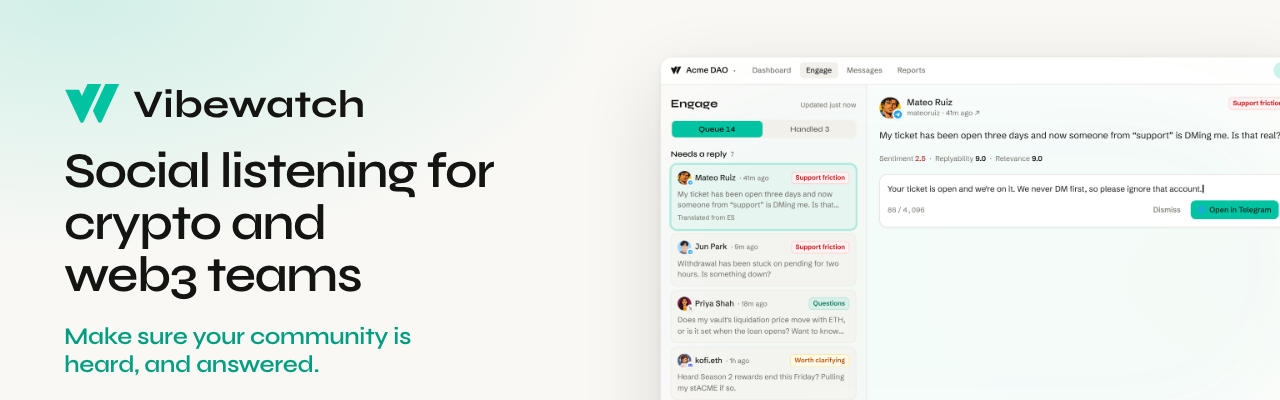
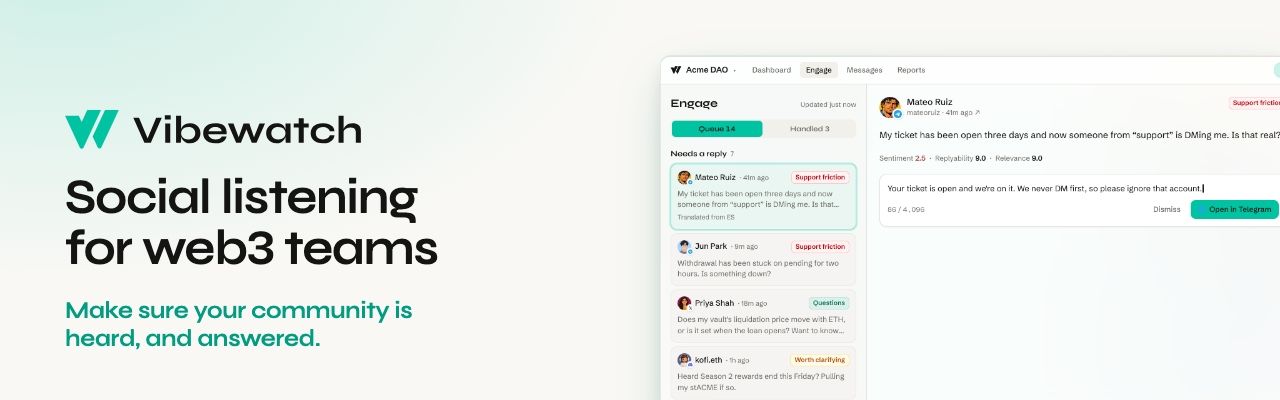
Org hero: the category line, and point at its render source
The hero said "Social listening for crypto and web3 teams", the homepage H1's
long form; VOICE.md names "Social listening for web3 teams" for this kind of
surface. Re-rendered by vibewatch-marketing hero-kit/render-banners.mjs (only
the headline changed). The alt text follows, and describes the window as the
site's illustration rather than a screenshot of the app.

diff --git a/README.md b/README.md
@@ -5,6 +5,6 @@ Organization-level GitHub configuration for [Vibewatch](https://vibewatch.io).
 - [`profile/README.md`](profile/README.md) renders as the public org profile at [github.com/Vibewatch-io](https://github.com/Vibewatch-io).
 - [`profile/assets/`](profile/assets/) holds the brand assets used by that profile: the hero banner, logo lockups and symbol.
 
-`profile/assets/hero.png` is the Vibewatch 2.0 share banner (wordmark, category line and headline over the Engage window). It is an exported PNG with no render source in any repo yet, so when the homepage hero copy changes, replace it with a new export in the same style.
+`profile/assets/hero.png` is the Vibewatch 2.0 share banner (wordmark, category line and headline beside the Engage window). It is rendered by `hero-kit/render-banners.mjs` in the internal `vibewatch-marketing` repo, which also holds its source PNG (`hero-kit/banners/github-org-hero-1280x400.png`). When the category line or the homepage hero changes, re-render it there and replace this file with the new export.
 
 Brand source of truth lives in the internal `vibewatch-docs` repo: `brand/STYLE_GUIDE.md` for design, `brand/VOICE.md` for copy. Keep the palette, wordmark, and wording here in sync with them.

diff --git a/profile/README.md b/profile/README.md
@@ -1,6 +1,6 @@
 <div align="center">
   <a href="https://vibewatch.io">
-    <img src="./assets/hero.png" alt="Vibewatch. Social listening for crypto and web3 teams. Make sure your community is heard, and answered. Beside the words, a screenshot of the Engage queue in the Vibewatch app." width="100%">
+    <img src="./assets/hero.png" alt="Vibewatch. Social listening for web3 teams. Make sure your community is heard, and answered. Beside the words, the Engage reply queue as vibewatch.io illustrates it." width="100%">
   </a>
 
   <br>
